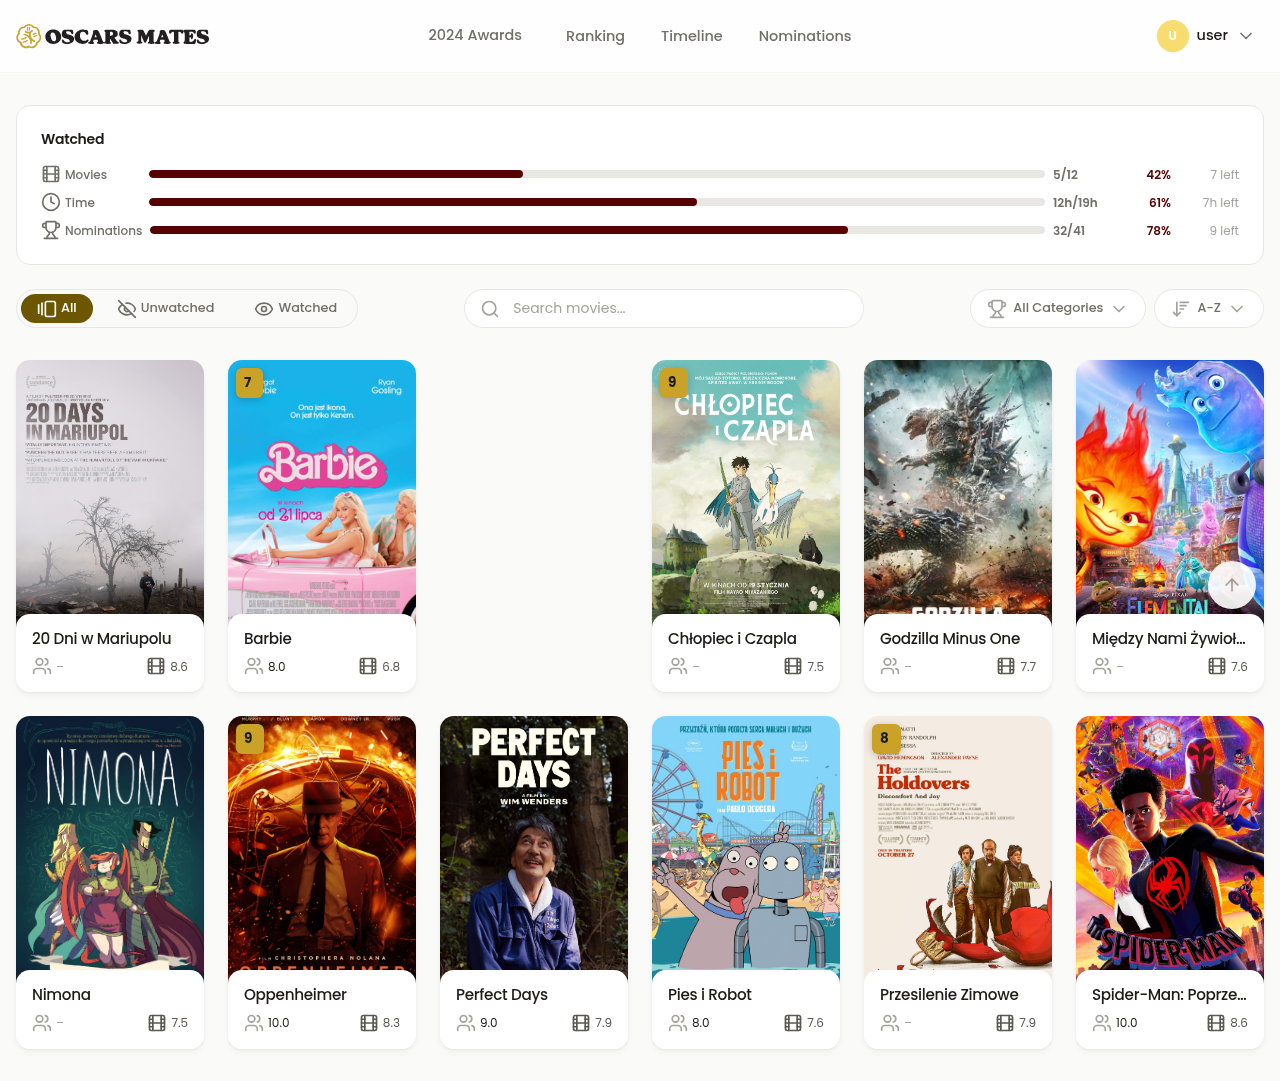
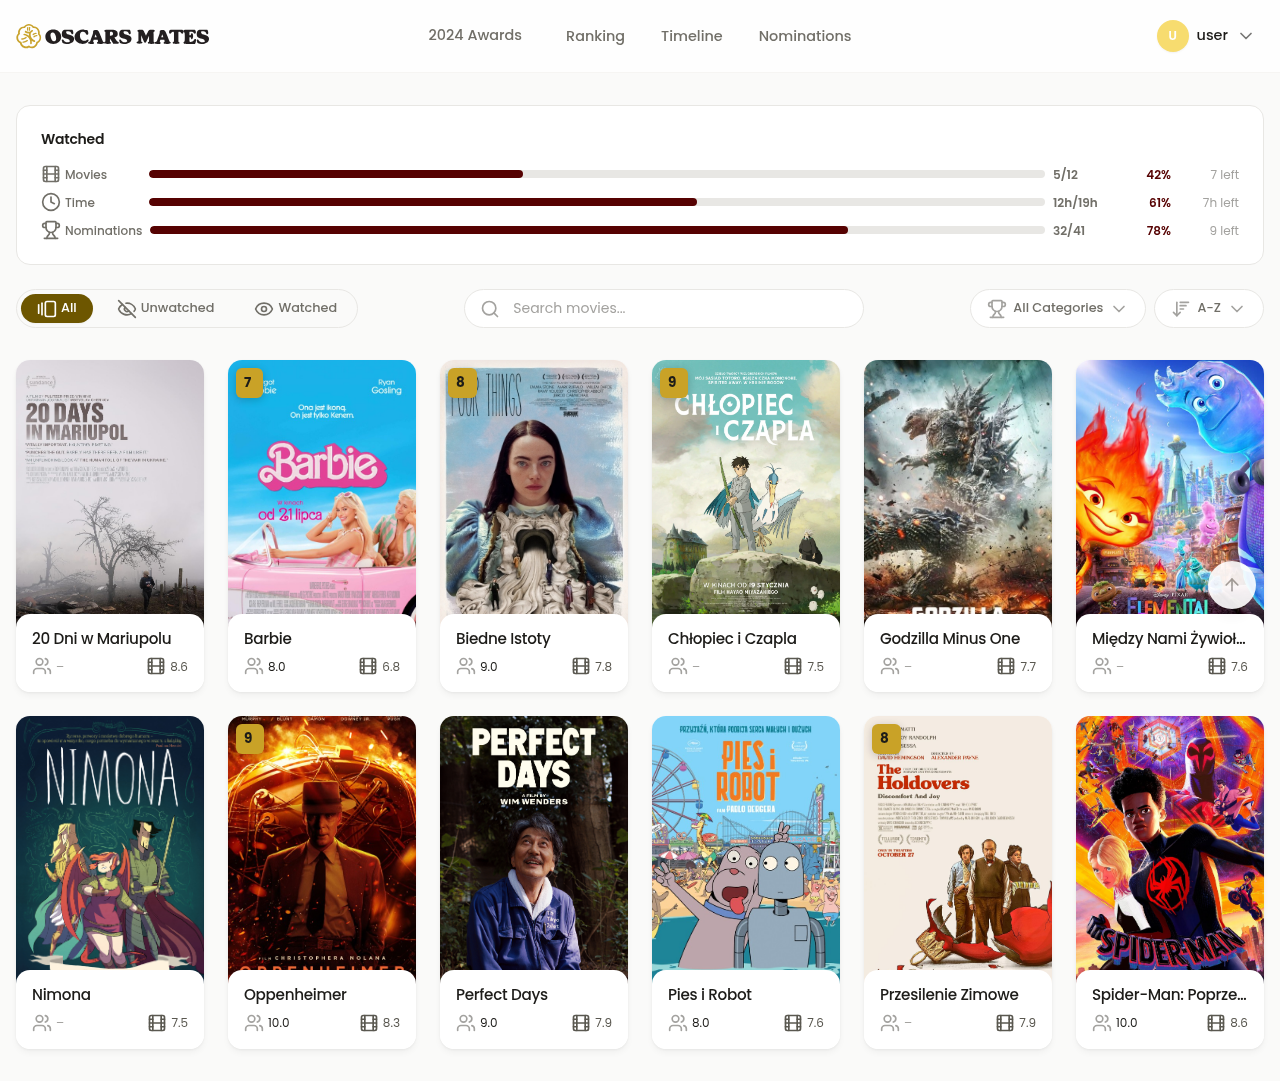
fix seeds: replace 14 dead IMDb poster URLs with Wikimedia posters
IMDb image URLs rot (all m.media-amazon.com links for these movies 404 now).
Replaced with stable upload.wikimedia.org poster files. Dev DB updated to match;
movies index now renders every poster. The Barber of Little Rock has no poster
on Wikipedia — its (already dead) URL is left for a later fix.

Changed region(s): [[0.3438, 0.3358, 0.5, 0.6105], [0.4375, 0.6105, 0.4688, 0.6411]]

diff --git a/db/seeds.rb b/db/seeds.rb
@@ -117,7 +117,7 @@ movies = [
     runtime: 141,
     rating: 7.8,
     url: 'https://www.imdb.com/title/tt14230458/',
-    picture_url: 'https://m.media-amazon.com/images/M/MV5BNGIyYWMzNjktNDE3MC00YWQyLWEyMmEtN2ZmNzZhZDk3NGJlXkEyXkFqcGdeQXVyMTUzMTg2ODkz._V1_.jpg'
+    picture_url: 'https://upload.wikimedia.org/wikipedia/en/f/f3/Poor_Things_poster.jpg'
   },
   {
     title: 'Poprzednie Życie',
@@ -162,7 +162,7 @@ movies = [
     runtime: 106,
     rating: 6.5,
     url: 'https://www.imdb.com/title/tt14160834/',
-    picture_url: 'https://m.media-amazon.com/images/M/MV5BZDc2MDIzYzAtOWUzZS00ZjJmLWE4ZGMtMWZlNDc2OTQ5NzFjXkEyXkFqcGdeQXVyMTkxNjUyNQ@@._V1_.jpg'
+    picture_url: 'https://upload.wikimedia.org/wikipedia/en/9/91/RUSTIN_poster.jpg'
   },
   {
     title: 'Nyad',
@@ -180,7 +180,7 @@ movies = [
     runtime: 121,
     rating: 7.6,
     url: 'https://www.imdb.com/title/tt14225838/',
-    picture_url: 'https://m.media-amazon.com/images/M/MV5BM2IxNjg4MmQtNmJmMi00MjNlLWFlMjAtMzI4M2FkNTFjMTU1XkEyXkFqcGdeQXVyMjUzMTYzMDI@._V1_FMjpg_UX1000_.jpg'
+    picture_url: 'https://upload.wikimedia.org/wikipedia/en/6/61/Io_capitano_2023_film_poster.jpg'
   },
   {
     title: 'Śnieżne Braterstwo',
@@ -207,7 +207,7 @@ movies = [
     runtime: 98,
     rating: 7.5,
     url: 'https://www.imdb.com/title/tt26612950/',
-    picture_url: 'https://m.media-amazon.com/images/M/MV5BYjc3MTM5MzktNTUwYi00ODRjLTliOTMtYWJiZTQ2NzhlZjJlXkEyXkFqcGdeQXVyMTQyODg5MjQw._V1_.jpg'
+    picture_url: 'https://upload.wikimedia.org/wikipedia/en/1/14/The_Teachers%27_Lounge_poster.jpg'
   },
   {
     title: 'Chłopiec i Czapla',
@@ -360,7 +360,7 @@ movies = [
     runtime: 104,
     rating: 7.1,
     url: 'https://www.imdb.com/title/tt28865980/',
-    picture_url: 'https://m.media-amazon.com/images/M/MV5BZmRiYjQ2MDItN2I5OC00Yjk1LTllYTEtMDZlZDAyZjgxZDVmXkEyXkFqcGdeQXVyMTAyMjQ3NzQ1._V1_FMjpg_UX1000_.jpg'
+    picture_url: 'https://upload.wikimedia.org/wikipedia/en/7/73/American_symphony_poster.jpg'
   },
   {
     title: '20 Dni w Mariupolu',
@@ -378,7 +378,7 @@ movies = [
     runtime: 113,
     rating: 7.4,
     url: 'https://www.imdb.com/title/tt21376900/',
-    picture_url: 'https://m.media-amazon.com/images/M/MV5BNWU3NTcyZGMtZjE4ZS00NGI2LWJkOTYtY2E1ZDA3YzQxNGFmXkEyXkFqcGdeQXVyMTY3ODkyNDkz._V1_FMjpg_UX1000_.jpg'
+    picture_url: 'https://upload.wikimedia.org/wikipedia/en/8/84/Bobi_Wine_The_People%27s_President_2022_film_poster.jpg'
   },
   {
     title: 'To Kill a Tiger',
@@ -387,7 +387,7 @@ movies = [
     runtime: 125,
     rating: 7.9,
     url: 'https://www.imdb.com/title/tt21688772/',
-    picture_url: 'https://m.media-amazon.com/images/M/MV5BMWQ4NjMwYTUtNjE0OC00MTYyLWE4MGQtYTEzNjYwZTA3NDM4XkEyXkFqcGdeQXVyMzM2Mzc4NTU@._V1_.jpg'
+    picture_url: 'https://upload.wikimedia.org/wikipedia/en/9/98/To_Kill_a_Tiger.jpg'
   },
   {
     title: 'Cztery Córki',
@@ -405,7 +405,7 @@ movies = [
     runtime: 85,
     rating: 7.8,
     url: 'https://www.imdb.com/title/tt21688772/',
-    picture_url: 'https://m.media-amazon.com/images/M/MV5BOTFiMjFlZjEtMDM5Zi00MmIzLTliM2EtZTc3NjUzNzA3ZWI1XkEyXkFqcGdeQXVyMTYzMDUzNjEw._V1_.jpg'
+    picture_url: 'https://upload.wikimedia.org/wikipedia/en/2/22/The_Eternal_Memory_poster.jpg'
   },
   {
     title: 'List do Świni',
@@ -414,7 +414,7 @@ movies = [
     runtime: 17,
     rating: 7.0,
     url: 'https://www.imdb.com/title/tt10346066/',
-    picture_url: 'https://m.media-amazon.com/images/M/MV5BMzRhMjg0NDAtZjdkZC00YmE2LThjZWUtZDBmYjBhZmQ0NWFlXkEyXkFqcGdeQXVyODgxMDAxMjY@._V1_FMjpg_UX1000_.jpg'
+    picture_url: 'https://upload.wikimedia.org/wikipedia/en/2/24/Letter_to_a_Pig_Film_Poster.jpg'
   },
   {
     title: 'Ninety-Five Senses',
@@ -441,7 +441,7 @@ movies = [
     runtime: 11,
     rating: 6.9,
     url: 'https://www.imdb.com/title/tt29795707/',
-    picture_url: 'https://m.media-amazon.com/images/M/MV5BZWMxNzhhZTItMzYzMC00NDIzLWJlMmItNTBmYTdlOTYxYWEyXkEyXkFqcGdeQXVyNTU4MTc2MjE@._V1_FMjpg_UX1000_.jpg'
+    picture_url: 'https://upload.wikimedia.org/wikipedia/en/9/9d/WAR_IS_OVER%21_Movie_Poster.jpg'
   },
   {
     title: 'Kawaler Fortuny',
@@ -450,7 +450,7 @@ movies = [
     runtime: 25,
     rating: 7.1,
     url: 'https://www.imdb.com/title/tt26600054/',
-    picture_url: 'https://m.media-amazon.com/images/M/MV5BNTY4MjllYWYtMGVjMi00Y2EyLTk4NjYtOGI3YTU0OGUwODgxXkEyXkFqcGdeQXVyMTI2NzYyODM3._V1_.jpg'
+    picture_url: 'https://upload.wikimedia.org/wikipedia/en/8/8f/Knight_of_Fortune.jpg'
   },
   {
     title: 'Red, White and Blue',
@@ -468,7 +468,7 @@ movies = [
     runtime: 19,
     rating: 6.2,
     url: 'https://www.imdb.com/title/tt28532006/',
-    picture_url: 'https://m.media-amazon.com/images/M/MV5BMzhiZDRmOTktZjNmNy00ZDYyLTk2OGUtZGJmMmFlOWRjYzFhXkEyXkFqcGdeQXVyMTc0ODU3MjY@._V1_FMjpg_UX1000_.jpg'
+    picture_url: 'https://upload.wikimedia.org/wikipedia/en/9/9a/The_After_film_poster.jpg'
   },
   {
     title: "Zdumiewająca historia Henry'ego Sugara",
@@ -477,7 +477,7 @@ movies = [
     runtime: 37,
     rating: 7.4,
     url: 'https://www.imdb.com/title/tt16968450/',
-    picture_url: 'https://m.media-amazon.com/images/M/MV5BZjJjYzkyNWMtZTM2My00YWQ3LWJiODktMzc5YjhlNGY1Mjg5XkEyXkFqcGdeQXVyMTkxNjUyNQ@@._V1_FMjpg_UX1000_.jpg'
+    picture_url: 'https://upload.wikimedia.org/wikipedia/en/d/dc/HenrySugar.jpg'
   },
   {
     title: 'Island in Between',
@@ -522,7 +522,7 @@ movies = [
     runtime: 39,
     rating: 7.4,
     url: 'https://www.imdb.com/title/tt29118186/',
-    picture_url: 'https://m.media-amazon.com/images/M/MV5BZWNjZjFjMzEtMmRiYi00NjNiLWEyZDEtZDc0NDFlYTM3NTI4XkEyXkFqcGdeQXVyMTM1NjM2ODg1._V1_FMjpg_UX1000_.jpg'
+    picture_url: 'https://upload.wikimedia.org/wikipedia/en/a/a4/The_Last_Repair_Shop_film_poster.jpg'
   }
 ]
 
